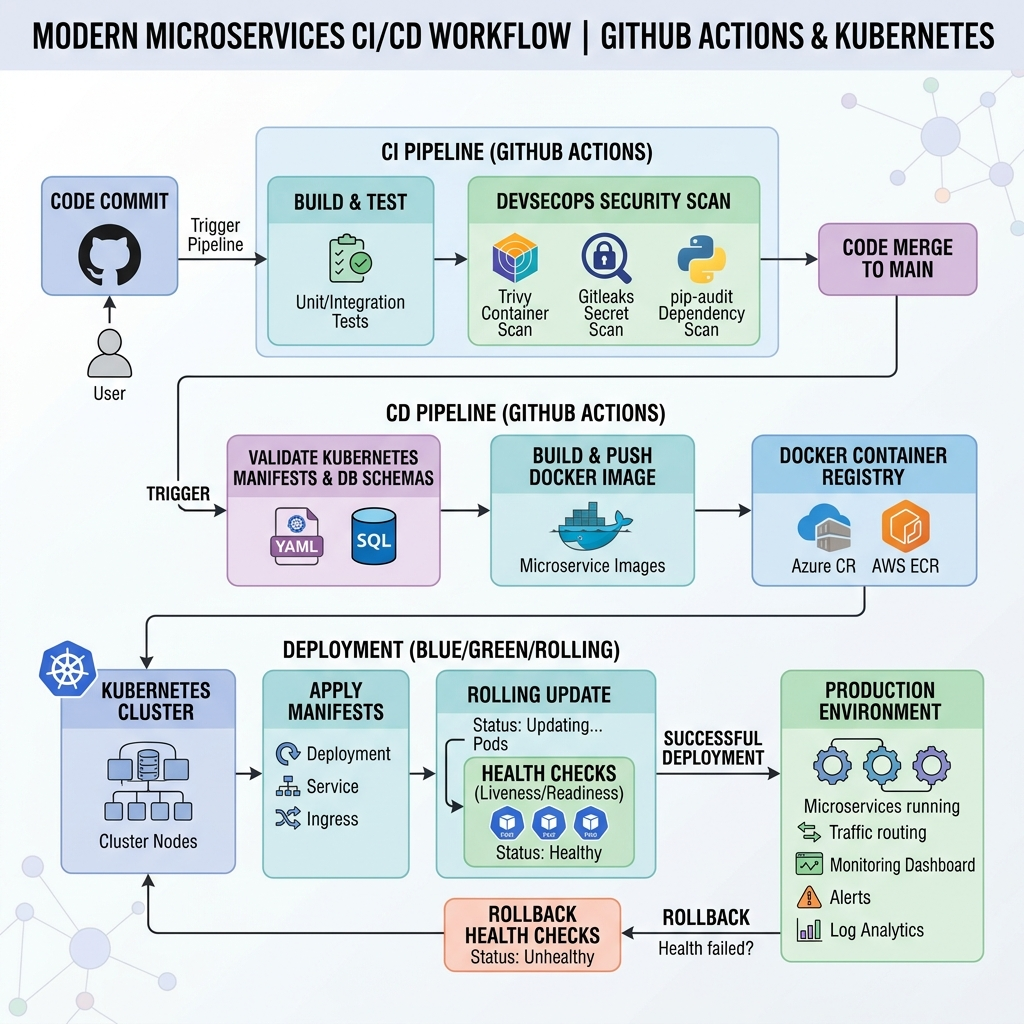
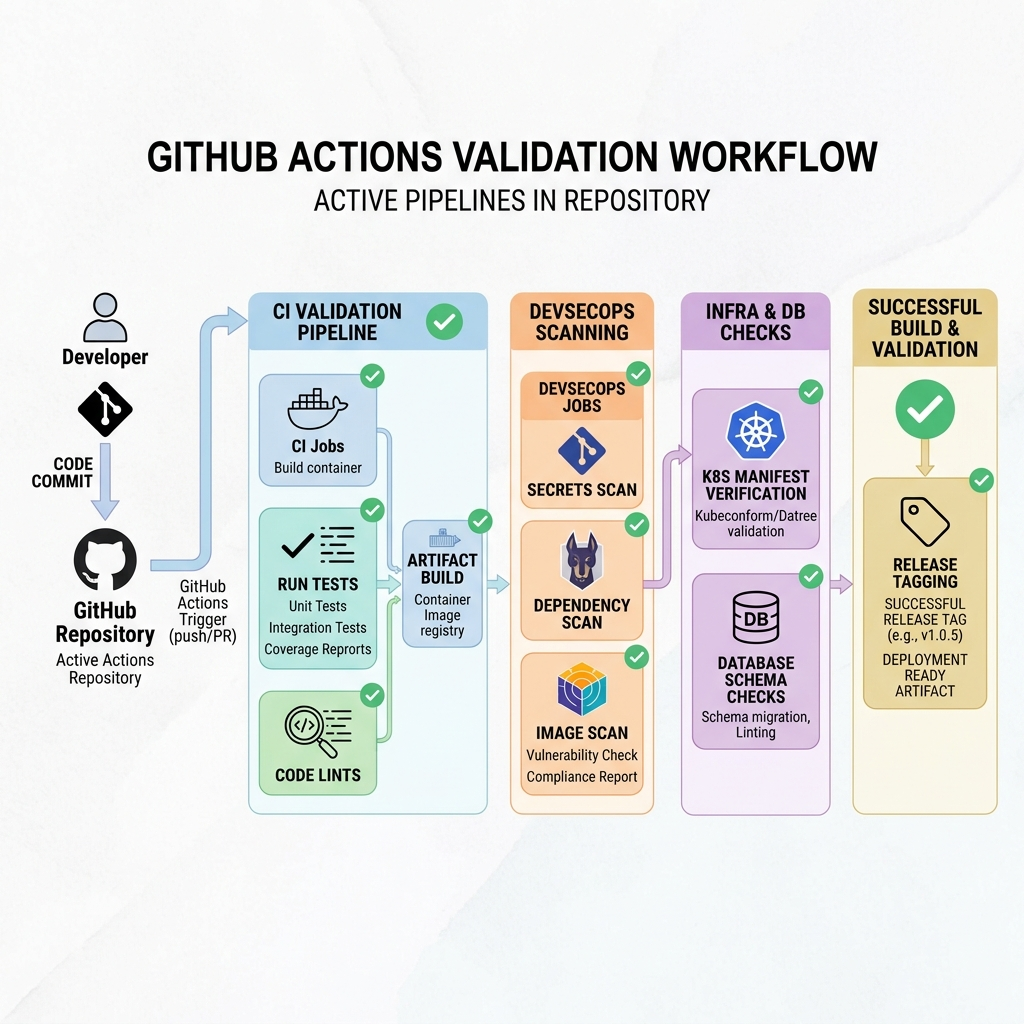
docs: update workflows diagram and README to focus on active pipelines and list extensions under future work

diff --git a/README.md b/README.md
@@ -233,10 +233,10 @@ The repository includes a production-grade DevOps automation suite structured in
 * **Database Operations Check (database-check.yml)**: Spins up a temporary PostgreSQL instance to validate SQLAlchemy structures and Alembic migration scripts.
 * **Release Manager (release.yml)**: Automates Git tag-based releases and generates release changelogs.
 
-### Production-Ready Templates (Configured as .disabled files)
-To enable these, configure your credentials in GitHub Secrets and rename the files to `.yml`:
-* **Docker Registry Publish (docker-build-push.disabled)**: Builds and pushes versioned images to Docker Hub. Requires `DOCKER_USERNAME` and `DOCKER_PASSWORD` secrets.
-* **Cluster Deployment (deploy.disabled)**: Deploys updated images to your cluster with rolling rollouts and automatic rollback on failure. Requires `KUBECONFIG_DATA` secret.
+### Future CI/CD Pipeline Extensions (Configured as Disabled Templates)
+To activate these pipelines as part of future production iterations, configure the respective repository credentials in GitHub Secrets and rename the files to `.yml`:
+* **Automated Docker Hub Registry Publish (docker-build-push.disabled)**: Builds and pushes compiled production image layers to Docker Hub. Requires setting up `DOCKER_USERNAME` and `DOCKER_PASSWORD` secrets.
+* **Rolling Cluster Deployment (deploy.disabled)**: Connects directly to a remote cluster to apply automated updates with rollback protection. Requires setting up a `KUBECONFIG_DATA` secret.
 
 ---
 